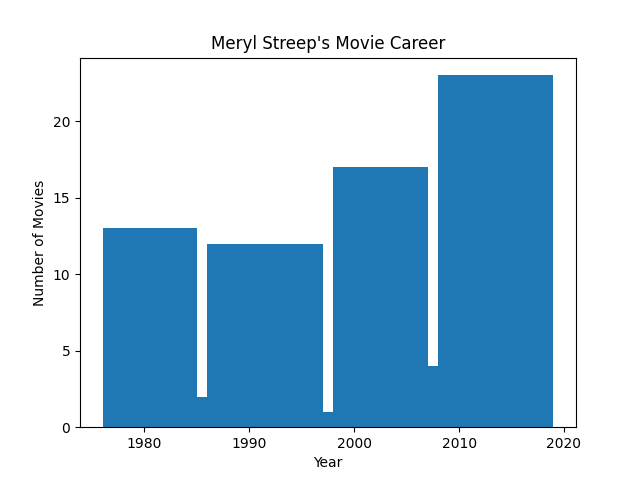
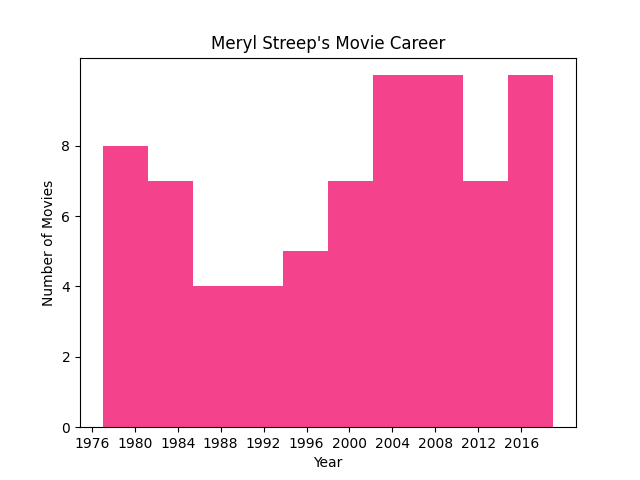
Improve histogram with customizations

diff --git a/creating-a-histogram/main.py b/creating-a-histogram/main.py
@@ -2,12 +2,15 @@ import matplotlib.pyplot as plt
 
 movie_year = [2019,2019,2018,2018,2017,2016,2016,2016,2015,2015,2014,2014,2014,2013,2012,2012,2011,2010,2010,2009,2009,2008,2008,2007,2007,2007,2007,2006,2006,2006,2006,2005,2004,2004,2003,2003,2003,2002,2002,2001,1999,1999,1998,1998,1997,1996,1996,1995,1994,1993,1992,1991,1990,1989,1988,1987,1986,1985,1985,1984,1983,1982,1982,1982,1981,1979,1979,1979,1978,1978,1977,1977]
 
-bins =[1976,1985, 1986,1997, 1998,2007, 2008,2019]
+bins = 10
 
-plt.hist(movie_year, bins, histtype="bar")
+plt.hist(movie_year, bins, histtype="bar", color="#f5428d")
 
 plt.xlabel("Year")
 plt.ylabel("Number of Movies")
 plt.title("Meryl Streep's Movie Career")
+
+plt.xticks(range(1976, 2020, 4))
+plt.yticks(range(0, 10, 2))
 
 plt.savefig("meryl_streep_career.png")
